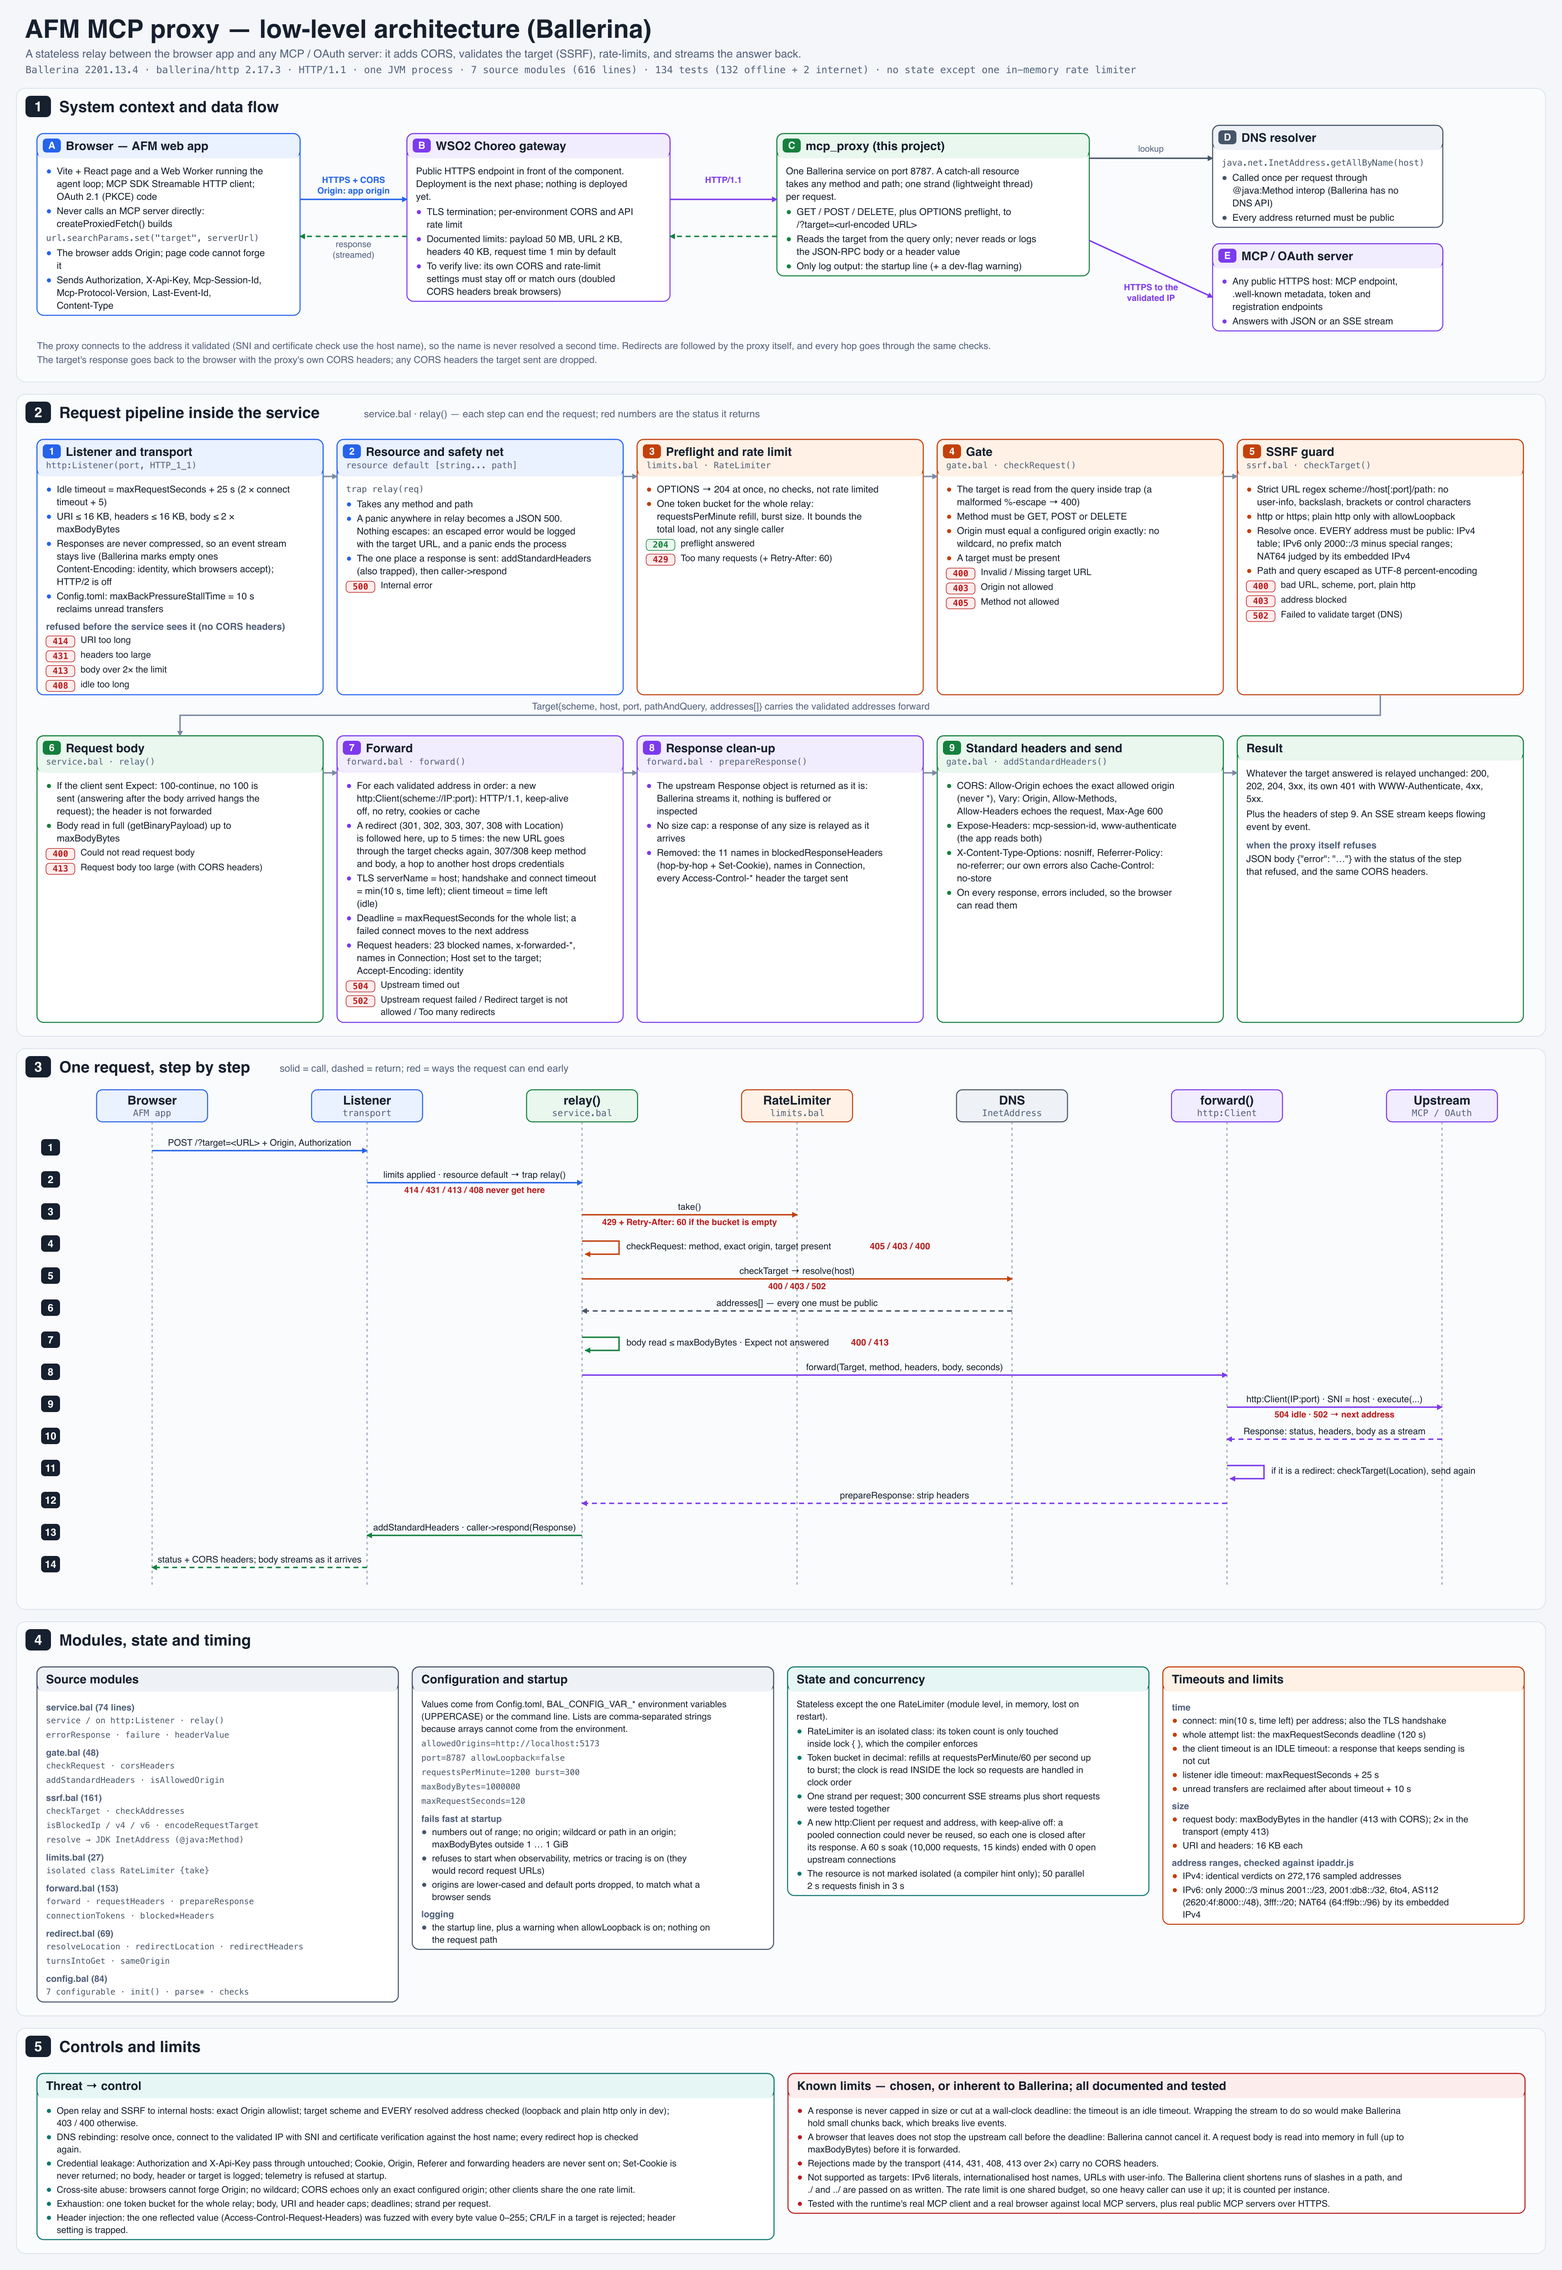
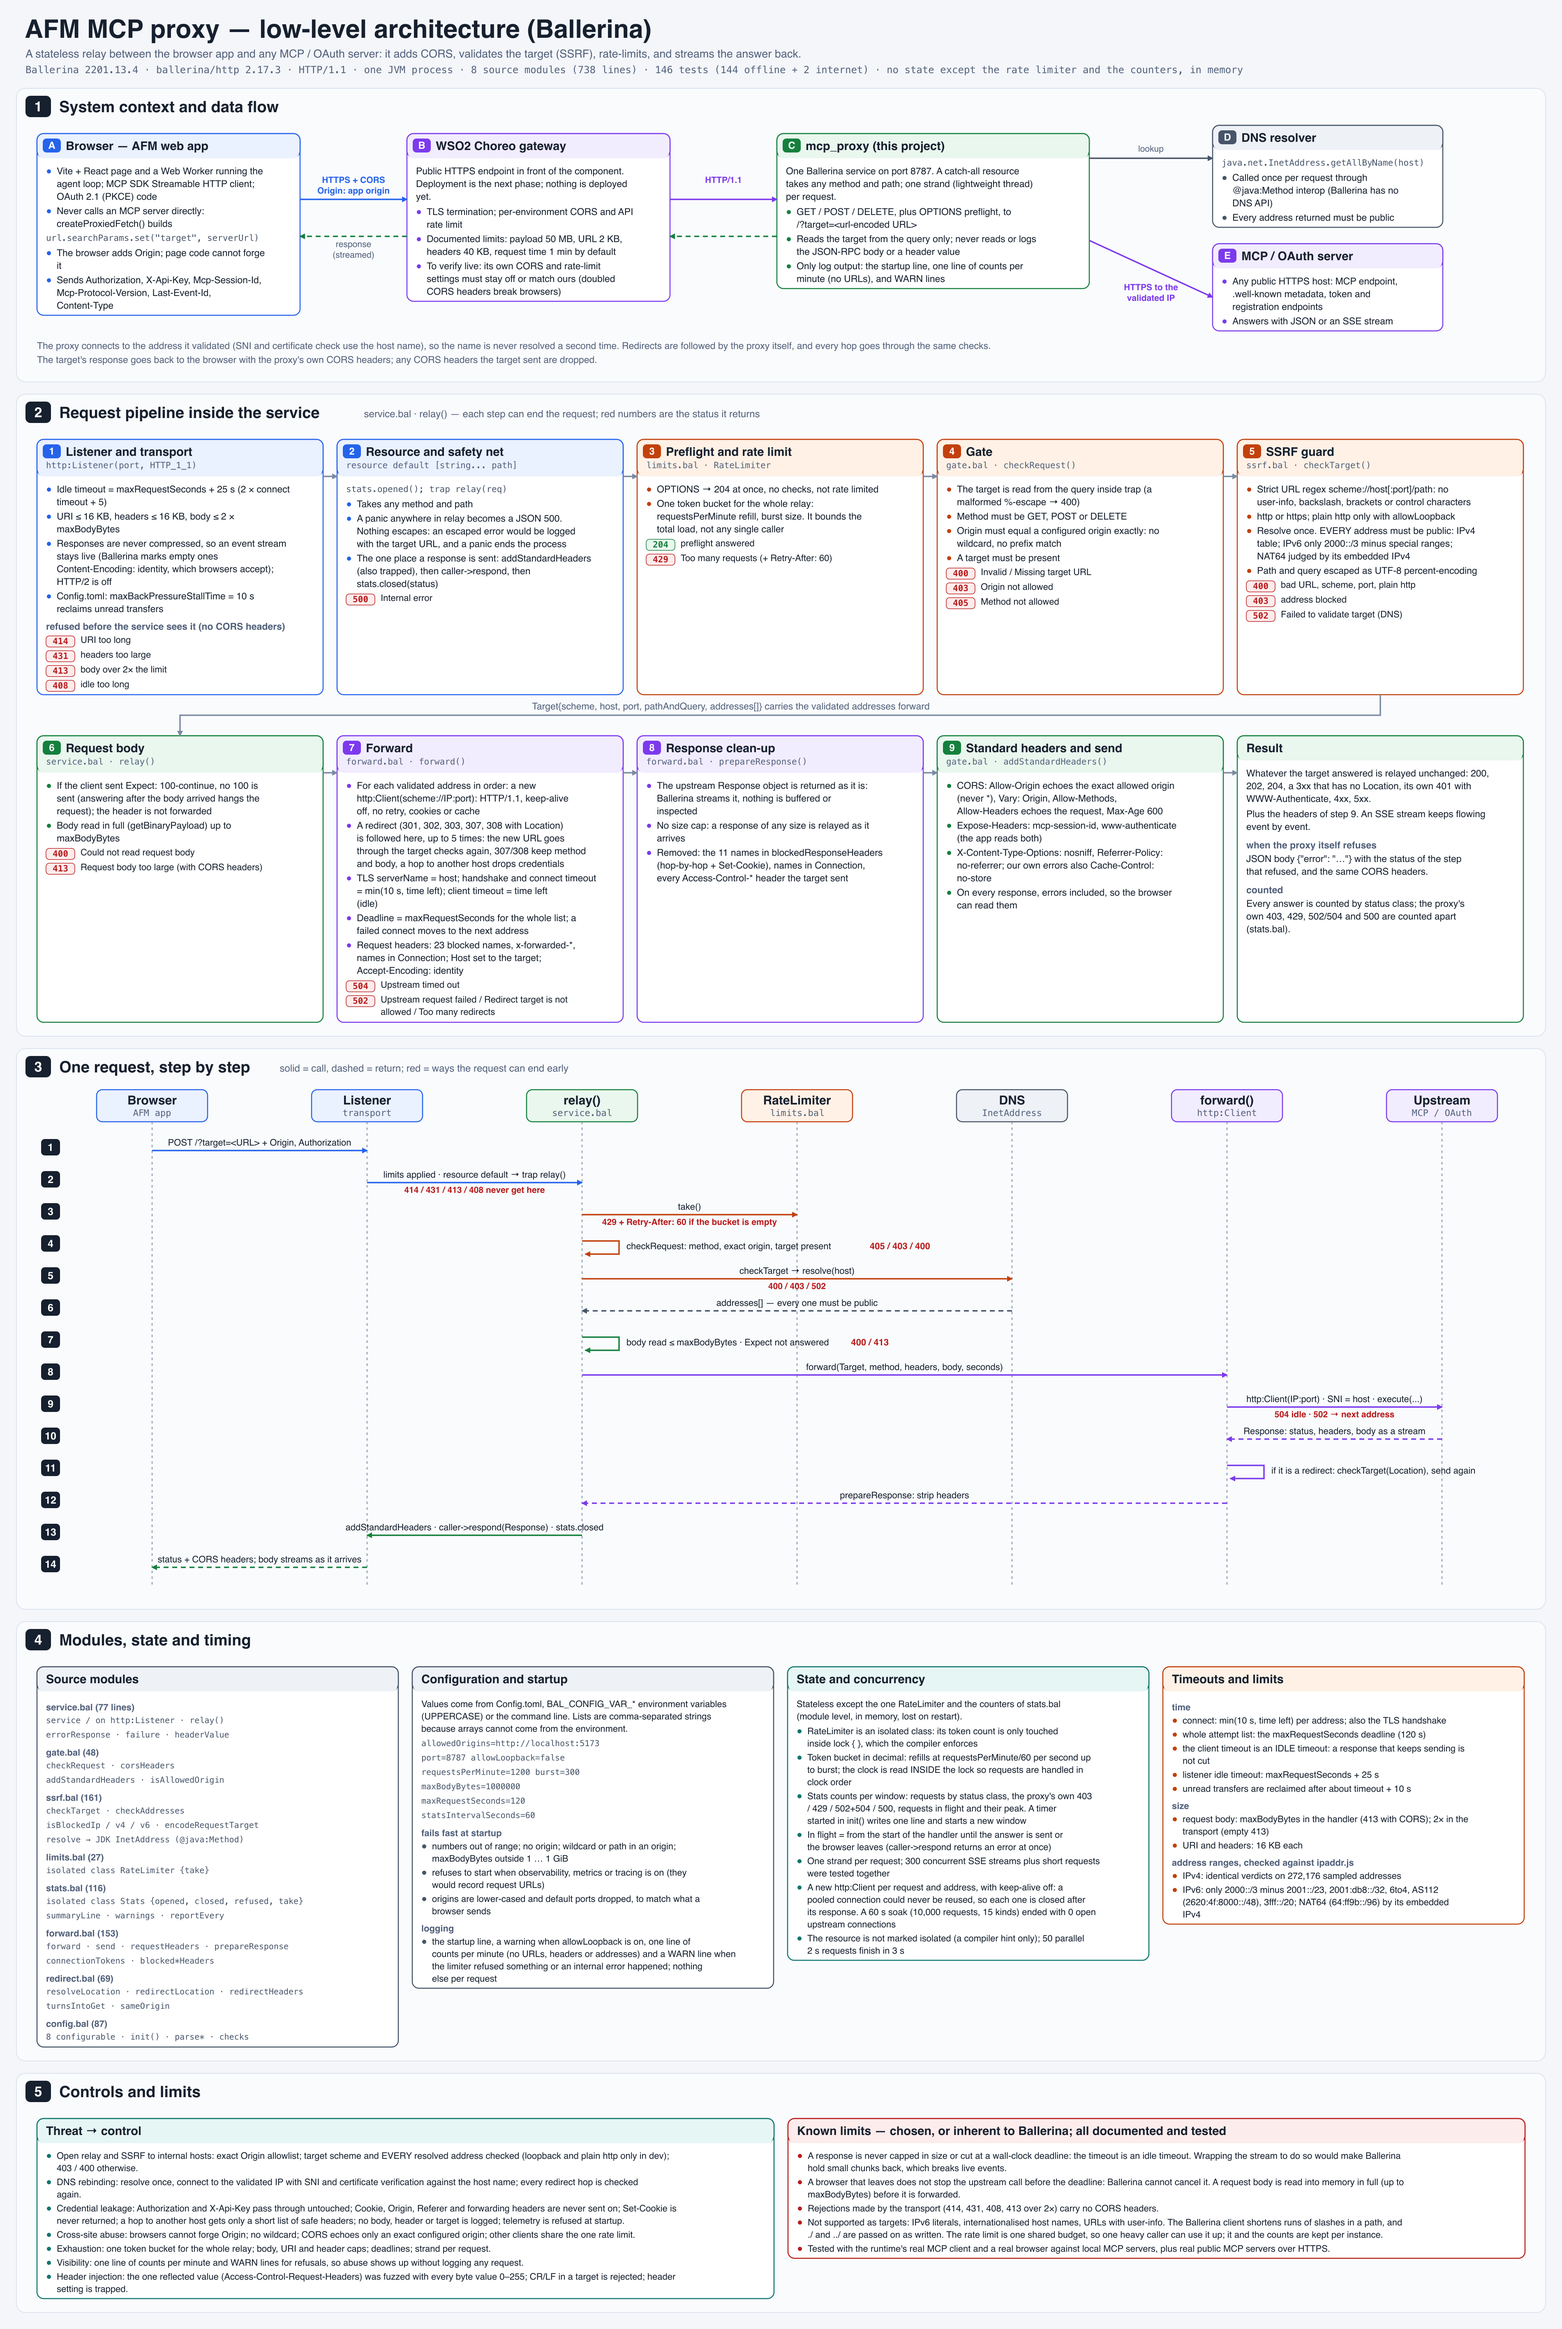
Document the counts line and redraw the architecture
Adds the Monitoring section to the README, the alert recipes to the Choreo guide, and a diagram that shows stats.bal and the new setting.

diff --git a/README.md b/README.md
@@ -2,7 +2,7 @@
 
 A small relay, written in Ballerina, that lets a browser app talk to remote MCP and OAuth servers. A browser cannot call most of them directly because of CORS. The proxy makes the call for it and sends the answer back with the right CORS headers.
 
-It adds nothing to the traffic and keeps nothing: no sessions, no database, no logging of requests.
+It adds nothing to the traffic and keeps nothing: no sessions, no database, no logging of requests. Its only log output is a startup line and, every minute, one line of counts (see Monitoring).
 
 ## What it does
 
@@ -26,10 +26,31 @@ Values come from `Config.toml`, from environment variables named `BAL_CONFIG_VAR
 | `burst` | `300` | Size of the shared rate limit bucket. |
 | `maxBodyBytes` | `1000000` | Largest accepted request body (1 to 1073741824). |
 | `maxRequestSeconds` | `120` | Time allowed for the target to answer. |
+| `statsIntervalSeconds` | `60` | Seconds between the summary lines of counts. |
 
 The proxy refuses to start when Ballerina observability, metrics or tracing is switched on, because they would record request URLs, and the URL holds the target.
 
 `Config.toml` also sets `maxBackPressureStallTime = 10` for `ballerina/http`, so a transfer nobody reads is released after seconds instead of minutes. As an environment variable that is `BAL_CONFIG_VAR_BALLERINA_HTTP_MAXBACKPRESSURESTALLTIME`.
+
+## Monitoring
+
+Every `statsIntervalSeconds` the proxy writes one line of counts, and nothing else about requests: no URLs, headers, addresses or bodies.
+
+```text
+stats requests=412 ok=380 redirects=2 clientErrors=25 serverErrors=5 forbidden=12 rateLimited=8 upstreamErrors=2 internalErrors=0 inFlight=3 peakInFlight=17
+```
+
+| Count | Meaning |
+|---|---|
+| `requests` | requests answered since the last line |
+| `ok`, `redirects`, `clientErrors`, `serverErrors` | the status class (2xx, 3xx, 4xx, 5xx) of every answer, whoever produced it |
+| `forbidden` | the proxy's own 403: an origin that is not allowed, or a private target |
+| `rateLimited` | the proxy's own 429 |
+| `upstreamErrors` | the proxy's own 502 and 504: DNS failed, the target was unreachable or too slow, or a redirect went somewhere refused |
+| `internalErrors` | the proxy's own 500 |
+| `inFlight`, `peakInFlight` | requests being answered now, and the most at once since the last line |
+
+A target's own 403 or 500 only shows in the status classes, never in the proxy's own counts. When the rate limit refused anything, or an internal error happened, a `WARN` line follows: `rate limit refused N requests since the last stats line` or `internal errors: N since the last stats line`. The counts start from zero on a restart and cover one instance.
 
 ## Run and test
 
@@ -52,4 +73,4 @@ See [docs/CHOREO_DEPLOYMENT.md](docs/CHOREO_DEPLOYMENT.md) for the Choreo steps 
 - Rejections made by the HTTP listener itself (414, 431, 408, and a body over twice `maxBodyBytes`) carry no CORS headers.
 - IPv6 literals, internationalised host names and URLs with user-info are not accepted as targets.
 - `./` and `../` in a path, in a target or in a redirect's `Location`, are passed on as written and not normalised.
-- The rate limit is one shared budget kept in memory per instance.
+- The rate limit and the counts are kept in memory per instance and start from zero on a restart.

diff --git a/docs/CHOREO_DEPLOYMENT.md b/docs/CHOREO_DEPLOYMENT.md
@@ -153,3 +153,22 @@ If it fails with a message about the Ballerina version or distribution, stop and
 - Rate limiting: configure the gateway limit (environment card → view icon of the endpoint → settings icon → **Manage** → **Rate Limiting**) and test the four things listed in the project notes: the 429 after N requests, a second client sharing the count, whether the preflight counts, and whether the 429 has CORS headers.
 - Production: **Promote** from the **Deploy** page, set `allowedOrigins` for production, and repeat steps 5.4 and 6 there, because settings are per environment.
 - To take it down: **Deploy** page, undeploy. Nothing else depends on it until you point the app at it.
+
+## 10. Watching the proxy
+
+Every minute the proxy writes one line of counts to the **Application** log (no URLs, headers or addresses). See **Observability** → **Runtime Logs**, log type **Application**, and search for `stats requests=`:
+
+```text
+stats requests=412 ok=380 redirects=2 clientErrors=25 serverErrors=5 forbidden=12 rateLimited=8 upstreamErrors=2 internalErrors=0 inFlight=3 peakInFlight=17
+```
+
+`forbidden`, `rateLimited`, `upstreamErrors` and `internalErrors` are what the proxy itself refused; the four status classes count every answer, including a target's own errors. When the rate limit refused something, or an internal error happened, a `WARN` line follows. Choreo's Log alerts match a phrase, so they can email you about exactly those lines.
+
+To create an alert you need the **DevOps** or **Platform Engineer** scope: open the component, then **Observability** → **Alerts** → **Create Alert Rule**, pick the **Alert Type** and the **Environment**, fill the fields, add up to 5 addresses under **Emails**, and click **Create** (a component can have 10 alerts).
+
+| Alert type | Fields | Tells you |
+|---|---|---|
+| Log | Search Phrase `rate limit refused`, Count `1`, Interval `5 minutes` | someone hit the proxy's rate limit |
+| Log | Search Phrase `internal errors:`, Count `1`, Interval `5 minutes` | the proxy hit a bug |
+| Traffic | Threshold, in requests per minute (for example `600`) | unusual volume, counted by the gateway |
+| Usage | Metric Memory, a threshold below the container limit from **DevOps** → **Containers** | the proxy is running out of memory |
